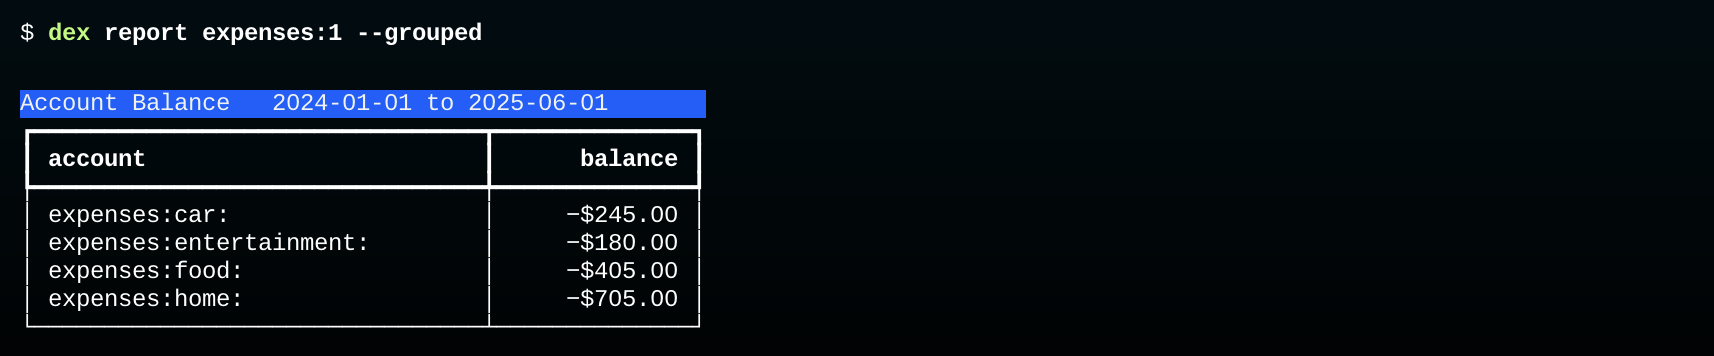
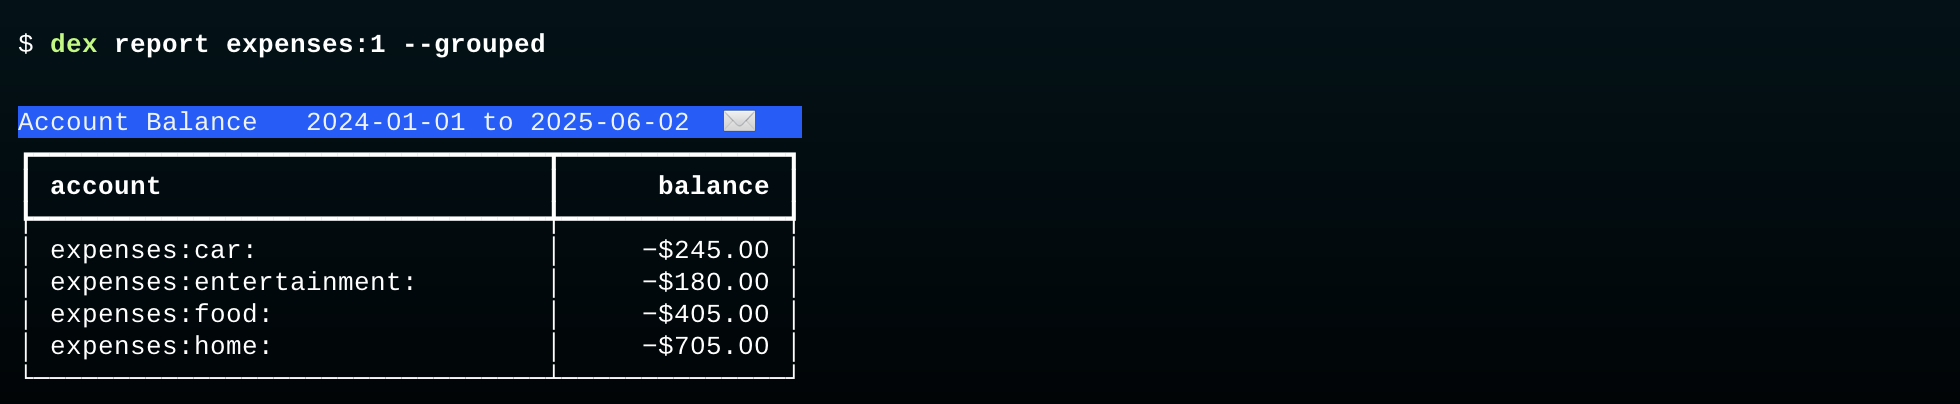
New sections for tutorial

Changed region(s): [[0.0, 0.2472, 0.4329, 0.9579], [0.0, 0.0618, 0.2783, 0.1545]]

diff --git a/src/dexter/report.py b/src/dexter/report.py
@@ -42,16 +42,20 @@ def print_grouped_report(args):
             for aname in alist:
                 logging.debug(f'report (grouped):  balances for {aname}')
                 accts.append(aname)
-                starts.append(DB.balance(aname, ending=start_date))
-                ends.append(DB.balance(aname, ending=end_date))
+                starts.append(DB.balance(aname, ending=start_date, nobudget=args.no_budget))
+                ends.append(DB.balance(aname, ending=end_date, nobudget=args.no_budget))
         else:
             logging.error(f'ier: bad spec: {spec}')
+
+    title = f'Account Balance   {start_date} to {end_date}'
+    if not args.no_budget:
+        title += '  ✉'
 
     t = Table(
         Column(header='account', width=30),
         title_justify='left',
         title_style='table_header',
-        title = f'Account Balance   {start_date} to {end_date}'
+        title = title,        
     )
 
     if args.start_date and args.end_date:
@@ -93,10 +97,10 @@ def print_detailed_report(args):
             logging.error(f'report: bad spec: {spec}')
 
     for acct, elist in entries.items():
-        print_detail_table(acct, elist, start_date)
+        print_detail_table(acct, elist, start_date, args.no_budget)
 
 
-def print_detail_table(acct, entries, start):
+def print_detail_table(acct, entries, start, nobudget):
     '''
     Helper function for expense report.  Uses rich to print a table
     with one line per record, updating balance.
@@ -107,6 +111,10 @@ def print_detail_table(acct, entries, start):
         start: date to use for starting balance
     '''
 
+    title=acct
+    if not nobudget:
+        title += '  ✉'
+
     t = Table(
         Column(header='date', width=12),
         Column(header='description', width=25, no_wrap=True),
@@ -116,7 +124,7 @@ def print_detail_table(acct, entries, start):
         Column(header='amount', width=12, justify='right'),
         # Column(header='credit', width=12, justify='right'),
         Column(header='balance', width=12, justify='right'),
-        title=acct,
+        title=title,
         title_justify='left',
         title_style='table_header',
         # show_header=False
@@ -133,16 +141,17 @@ def print_detail_table(acct, entries, start):
 
     t.add_row(f'[blue italic]{start}','[blue italic]starting balance','','','',format_amount(bal, dollar_sign=True))
 
-    for e in fills:
-        row = []
-        bal += e.value
-        row.append(f'[blue italic]{str(e.date)}')
-        row.append(f'[blue italic]{e.tref.description}')
-        row.append(DB.display_name(acct, markdown=True))
-        row.append(DB.display_name(e.tref.pdebit, markdown=True))
-        row.append(format_amount(e.value, dollar_sign=True))
-        row.append(format_amount(bal, dollar_sign=True))
-        t.add_row(*row)
+    if not nobudget:
+        for e in fills:
+            row = []
+            bal += e.value
+            row.append(f'[blue italic]{str(e.date)}')
+            row.append(f'[blue italic]{e.tref.description}')
+            row.append(DB.display_name(acct, markdown=True))
+            row.append(DB.display_name(e.tref.pdebit, markdown=True))
+            row.append(format_amount(e.value, dollar_sign=True))
+            row.append(format_amount(bal, dollar_sign=True))
+            t.add_row(*row)
 
     for e in nonfills:
         row = []

diff --git a/src/dexter/main.py b/src/dexter/main.py
@@ -108,7 +108,7 @@ def init_cli():
     report_parser.add_argument('--start_date', metavar='D', type=parse_date, help='starting date')
     report_parser.add_argument('--end_date', metavar='D', type=parse_date, help='ending date')
     report_parser.add_argument('--month', metavar='M', choices=months, help='define start and end dates based on month name')
-    # report_parser.add_argument('--nobudget', action='store_true', help='remove budget transactions')
+    report_parser.add_argument('--no_budget', action='store_true', help='remove budget transactions')
     report_parser.add_argument('--abbrev', action='store_true', help='print abbreviated names')
     report_parser.add_argument('--grouped', action='store_true', help='group by account name')
 

diff --git a/docs/tut_income.md b/docs/tut_income.md
@@ -1,0 +1,100 @@
+# Review Income
+
+The envelope filling transaction also changes the interpretation of the balance on income accounts.
+When there are no budget transactions the balance on an income account is the total amount of income from that source.
+A budget transaction changes the interpretation to "the amount of unallocated income."
+
+This is a report of all income accounts in our database after adding the bucket fill transaction:
+
+![income report](images/report.income.png)
+
+There are three transactions in this table that are records of when money was deposited in one of our accounts.
+There is one paycheck, for $5000, deposited into the checking account on Apr 2.
+There are also two interest deposits, one to each bank account, on Apr 30.
+
+These three transactions are the last three rows in the table.
+As you can see, each of them credits an income source and debits an asset.
+The credit decreases the balance in the income account.
+Without the budget transaction the total balance would be -$5002.27: $5000 from Yoyodyne and $2.27 in interest from the bank.
+The balance would correspond to the sum of all income from all sources.
+
+The budget transaction (the second row) has the opposite effect on the balance.
+Since it debits an income account, it moves the balance in a positive direction.
+
+The fact that there is a final balance of -$302.27 tells us we have $302.27 in unallocated funds.
+That makes sense:  we only put $4700 of our $5000 salary in expense accounts, and we haven't found a home yet for the interest income.
+
+## Put Interest Income in an Envelope
+
+If we want to make sure "every dollar has a job" we should decide on a place to put the interest income.
+It's a tiny amount, but it can add up, especially if we're lucky enough to have CD accounts or high-yield savings accounts.
+
+The question is, which envelope should we put it in?
+If you want to put it in the entertainment envelope create a new Journal with this transaction:
+
+```plain
+2024-04-30  Allocate interest               ; Apr budget:
+    income:interest              $2.27
+    expenses:entertainment      -$2.27
+```
+
+Save it in a file named `interest.apr.journal` and import it into the database:
+
+```bash
+$ dex import interest.apr.journal
+```
+
+## Add a Budget Transaction for the Transfer
+
+Our example data set includes a transfer from the checking account to the savings account to set aside $300 for long term goals.
+
+That transaction is in the database, which we can see by typing this query, which looks for transactions with the word "monthly" in the description:
+
+![a bank transfer transaction](images/bank.xfer.transaction.png)
+
+We need to add another new transaction to account for this in our budget.
+Making a record of the fact that we're allocating $300 to long term savings is easy enough: we just need to add another debit to the `ypyodyne` account.
+The budget transaction from the last section had this posting to allocate $4700 to various envelopes:
+```
+    income:yoyodyne             $4700.00
+```
+We'll do the same thing in the new transaction:
+```plain
+    income:yoyodyne              $300.00
+```
+
+But now the question is, which account do we use for the credit?
+We clearly don't want to put it in one of our existing expense accounts.
+One could make a case that "long term savings" is an expense and create an account with that name.
+
+But there is a better solution, and one that makes sense phisophically.
+We'll **debit the `equity` account**, the account that represents our "external" wealth.
+
+Create a new file named `savings.journal` and add this transaction, using the same date as the bank transfer:
+```plain
+2024-04-05 long term savings
+    income:yoyodyne              $300.00
+    equity                      -$300.00
+```
+
+`equity` is the account that was used to set the initial balances of our assets:
+```plain
+2023-12-31 initial balance
+    assets:bank:checking   $1,000.00
+    assets:bank:savings    $2,500.00
+    equity                -$3,500.00
+```
+The value on the last line is the sum of the amounts we had in all our asset accounts.
+So basically what we're doing with the new transaction is saying "we are $300 richer than we were."
+
+Type the shell command that imports `savings.journal`:
+```shell
+$ dex import savings.journal
+```
+
+Finally, print the report for income accounts:
+
+![balanced income reprot](images/report.income.balanced.png)
+
+That's it!
+The $0.00 balance on the last line means we have accounted for all money deposited in our asset accounts this month, either allocating it to an expense envelope or putting it away in our long term savings.

diff --git a/docs/tut_fill.md b/docs/tut_fill.md
@@ -36,7 +36,7 @@ It allocates most of the monthly paycheck from Yoyodyne (which was for $5,000)  
 
 That transaction is in a file named `fill.apr.journal` in the project directory.
 
-> _**Important:** Note the transaction has a `budget:` tag.  The tag is optional, but if it's there Dexter will be able to remove budget transactions from reports (why that's useful is explained below).
+> _**Important:** Note the transaction has a `budget:` tag.  The tag is optional, but if it's there Dexter will be able to remove budget transactions from reports (why that's useful is explained below)._
 
 ## Import the Budget Transaction
 
@@ -61,6 +61,13 @@ $ dex import fill.apr.journal
 
 ## Print Food Expenses
 
+A quick reminder of how Dexter does envelope budgeting (introduced earlier in [Envelope Budgeting](envelopes.md):
+
+* an envelope is an expense account
+* filling the envelope sets a negative balance by crediting the account
+* purchases, which debit the account, add a positive amount, moving the balance closer to $0
+* if the balance ever gets to $0 it mean the total purchases exceed the original allocation
+
 If you look back at the budget fill transaction, you'll see the posting that fills the food envelope put $600 in the account named `expenses:food`:
 
 ```plain
@@ -69,13 +76,6 @@ If you look back at the budget fill transaction, you'll see the posting that fil
 
 That's the parent account for `expenses:food:groceries` and `expenses:food:restaurant`.
 Any expenses in those two accounts are automatically taken from the food envelope.
-
-A quick reminder of how Dexter does envelope budgeting (introduced earlier in [Envelope Budgeting](envelopes.md):
-
-* an envelope is an expense account
-* filling the envelope sets a negative balance by crediting the account
-* purchases, which debit the account, add a positive amount, moving the balance closer to $0
-* if the balance ever gets to $0 it mean the total purchases exceed the original allocation
 
 This command prints a report for all food transactions, including the envelope filling transaction:
 
@@ -94,6 +94,18 @@ At the end of the month the balance was -$405.
 This agrees with the summary shown earlier, which said we spent $195 on food.
 We put in $600, spent $195, and have $405 left.
 
+There is one other difference to note.
+The title bar of this table has a little envelope icon next to the account name.
+That's there to indicate the report includes an envelope-filling budget transactions.
+
+## Date for the Budget Transaction
+
+You may have noticed the date on the budget fill transaction was April 2.
+We chose that date because it was the date of the monthly paycheck, so it seemed like a natural time to allocate money to expense categories.
+
+There are other strategies that work just as well, and may even make more sense when there are mulitple income sources or income deposits are made later in the month.
+This topic is covered in the [Fill Date](fill_date.md) section of the Budget Model documentation.
+
 ## Print a Summary of All Expenses
 
 This command groups all expenses by the main category (food, car, _etc_):
@@ -101,3 +113,17 @@ This command groups all expenses by the main category (food, car, _etc_):
 ![table with budget and all food expenses](images/report.envelopes.all.png)
 
 The items in the last column show the money left in each envelope at the end of the month.
+
+## Ignore Budgets
+
+Adding the budget transaction changed the meaning of "account balance" for expense accounts -- the balance is now the amount left in the envelope (as a negative number).
+
+If you want to print a table that shows the original meaning, namely the total amount spent in that category, it's easy to do -- just tell Dexter to ignore that budget transaction.
+Since the budget transaction is tagged `#budget` the report generator can simply take those out of the calculation.
+
+The `--no_budget` option tells Dexter to ignore the budget transaction when it prints the summary of all expenses:
+
+![grouped food report without budget](images/report.nobudget.png)
+
+That's exactly what we saw at the beginning of this section.
+

diff --git a/docs/tut_recap.md b/docs/tut_recap.md
@@ -1,0 +1,20 @@
+# Recap
+
+That's the end of the tutorial.
+In the previous sections you created a new database and worked through the main steps in Dexter's monthly financial tracking workflow:
+
+* Import records downloaded from banks and card companies. Each record is saved as a new credit or debit posting in the database.
+* Use Dexter's "pair" operation to automatically create as many transactions as possible.  New transactions are formed by matching two postings, one a credit and the other a debit.  In some cases both postings are already in the database, in others Dexter uses regular expressions to infer a new posting.
+* Use a command line based read-eval-print loop to pair the remaining postings.  This step is designed to do as much as possible with a few keystrokes.
+* Use additional commands to select and view transactions based on attributes (date, amount, description, _etc_) or print reports with account balances.
+
+There are several more things Dexter can help with.
+They are described in User Documentation section of this website:
+
+* Back up or restore a database, using one of two formats.  A "dox file" is basically a JSON file with one line per record.  The other uses MongoDB commands to make a binary file.
+* Export records to a Journal file so they can be incorporated into Ledger or `hledger`.
+* Edit or delete records, either individually or in bulk.
+* Additional report types.
+* Commands that reconcile credit card and bank statements, making sure the records in a database match records reported by a financial institution.
+
+> _**Note:** Some of these operations are working in my old SQLite-based scripts but haven't yet been converted to work with the new database schema._

diff --git a/docs/tut_report.md b/docs/tut_report.md
@@ -78,3 +78,4 @@ A mnemonic for rememberis the difference between `X:` (without a level number) a
 A `--grouped` option along with a name pattern that would make separate tables tells Dexter to compute the balance of each table and then collect the results into a single table to print:
 
 ![grouped food account report](images/report.food.grouped.png)
+

diff --git a/docs/fill_date.md b/docs/fill_date.md
@@ -1,0 +1,2 @@
+# Fill date
+
